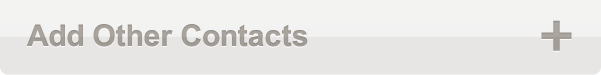
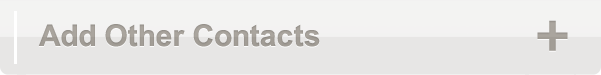
- Grammar fixes for directions/share pages - adjusted 'addOtherContacts' image/btn

Changed region(s): [[0.0, 0.32, 0.5391, 0.8533], [0.8686, 0.2667, 0.9584, 0.6933]]

diff --git a/js/main.js b/js/main.js
@@ -90,16 +90,16 @@ function truncate(str, len) {
 
     if (truncated != null && truncated.length) {
         var space = truncated.indexOf(' ');
-        
+
         if (space > 0) {
             var sub = truncated.substring(space);
-            
+
             var regex = /[^\w\s]/;
             var match = sub.match(regex);
             var end = match ? sub.indexOf(match) : sub.length;
-            
+
             truncated = [truncated.substring(0, space), sub.substring(0, end)].join(" ").trim();
-   
+
             // if still too long
             if (truncated.length >= len) {
                 truncated = truncated.trim()
@@ -648,6 +648,7 @@ function detailspage_detailsGrammarHandler(result) {
         } else if ((regexmatch = interp.match(/^\d+$/)) != null) {
             globalSelectListing(regexmatch[0]);
             $("#detailspage").trigger("pagebeforeshow");
+            $("#detailspage").trigger("pageshow");
         } else if ((regexmatch = interp.match(/^no,(.+)/i)) != null) {
             gChangeSearchString = regexmatch[1];
             history.back();
@@ -675,11 +676,9 @@ function generateDetailsGrammarUrl() {
         }
     }
 
-    if (gCurrentMeeting != null) {
-        for (var i = 0; i < gShareList.length; i++) {
-            var p = gShareList[i];
-            url += ("&name." + i + "=" + encodeURIComponent(p.name));
-        }
+    for (var i = 0; i < gShareList.length; i++) {
+        var p = gShareList[i];
+        url += ("&name." + i + "=" + encodeURIComponent(p.name));
     }
 
     return url;
@@ -716,7 +715,7 @@ function directionspage_before_show() {
 
 function directionspage_show() {
     NativeBridge.setMessage(null);
-    NativeBridge.setGrammar(gDirectionsGrammarRootUrl, null, directionspage_directionsGrammarHandler);
+    NativeBridge.setGrammar(generateDirectionsGrammarUrl(), null, directionspage_directionsGrammarHandler);
 
     $('#directions-panel').empty();
     var directionDisplay;
@@ -775,13 +774,34 @@ function directionspage_show() {
 function directionspage_directionsGrammarHandler(result) {
     if (result != null && result.length > 0) {
         var interp = result[0].interpretation;
+        var regexmatch = null;
         if (interp == "share") {
             $.mobile.changePage("#sharepage");
+        } else if (interp == "alert") {
+            // do nothing, just reset the grammar
+            NativeBridge.setGrammar(generateDirectionsGrammarUrl(), null, directionspage_directionsGrammarHandler);
+        } else if ((regexmatch = interp.match(/^share,(\d+)/i)) != null) {
+            var idx = regexmatch[1];
+            if (idx < gShareList.length) {
+                gShareList[idx].checked = true;
+                $.mobile.changePage("#sharepage");
+            }
         }
     } else {
         NativeBridge.setMessage("What?");
-        NativeBridge.setGrammar(gDirectionsGrammarRootUrl, null, directionspage_directionsGrammarHandler);
+        NativeBridge.setGrammar(generateDirectionsGrammarUrl(), null, directionspage_directionsGrammarHandler);
     }
+}
+
+function generateDirectionsGrammarUrl() {
+    var url = gDirectionsGrammarRootUrl;
+
+    for (var i = 0; i < gShareList.length; i++) {
+        var p = gShareList[i];
+        url += ("&name." + i + "=" + encodeURIComponent(p.name));
+    }
+
+    return url;
 }
 
 //-----------------------------------------------------------------------------
@@ -930,6 +950,8 @@ function sharepage_shareGrammarHandler(result) {
             $("#address" + idx).attr("checked", true).checkboxradio("refresh");
             $("#address" + idx).change();
             $("#smsbutton").click();
+        } else if (interp == "addother") {
+            sharepage_addcontacts_click();
         }
         NativeBridge.setMessage(null);
     } else {
@@ -942,11 +964,9 @@ function sharepage_shareGrammarHandler(result) {
 function generateShareGrammarUrl() {
     var url = gShareGrammarRootUrl;
 
-    if (gCurrentMeeting != null) {
-        for (var i = 0; i < gShareList.length; i++) {
-            var p = gShareList[i];
-            url += ("&name." + i + "=" + encodeURIComponent(p.name));
-        }
+    for (var i = 0; i < gShareList.length; i++) {
+        var p = gShareList[i];
+        url += ("&name." + i + "=" + encodeURIComponent(p.name));
     }
 
     return url;
